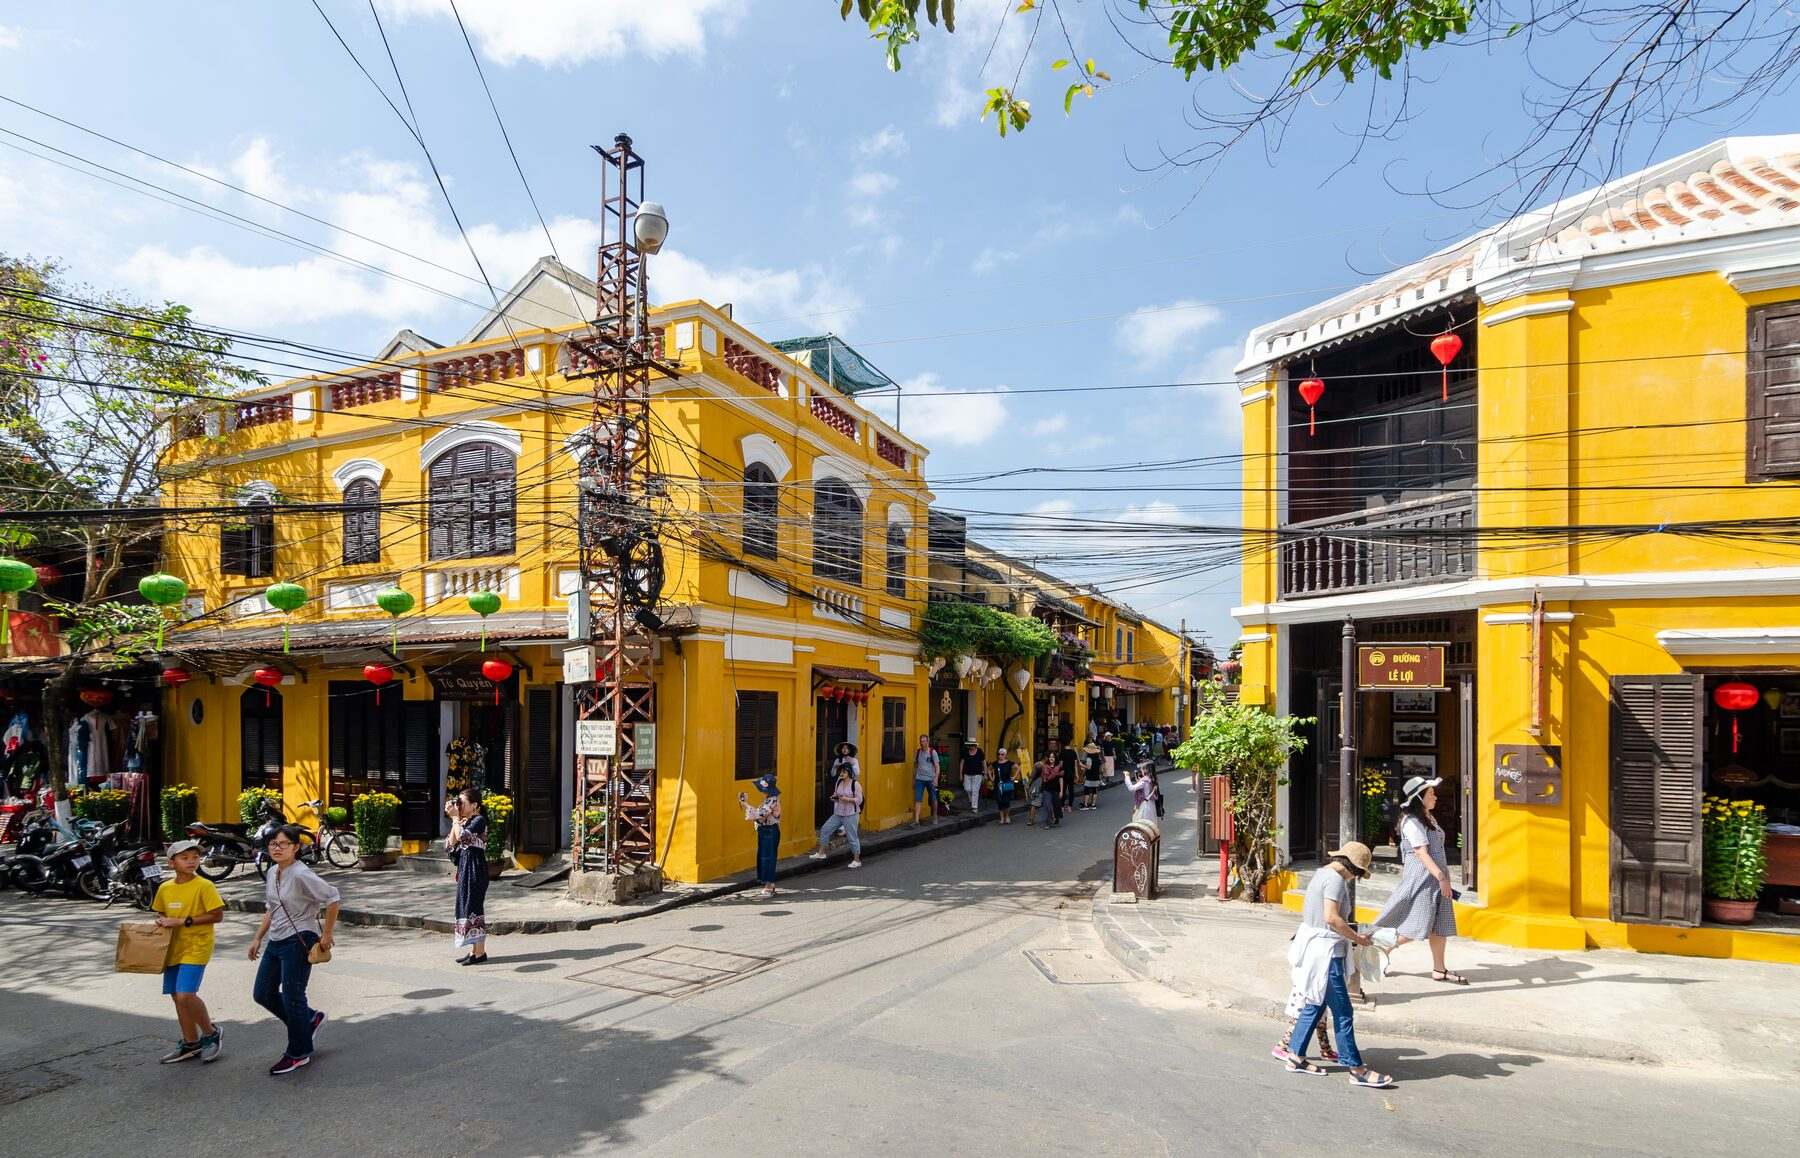
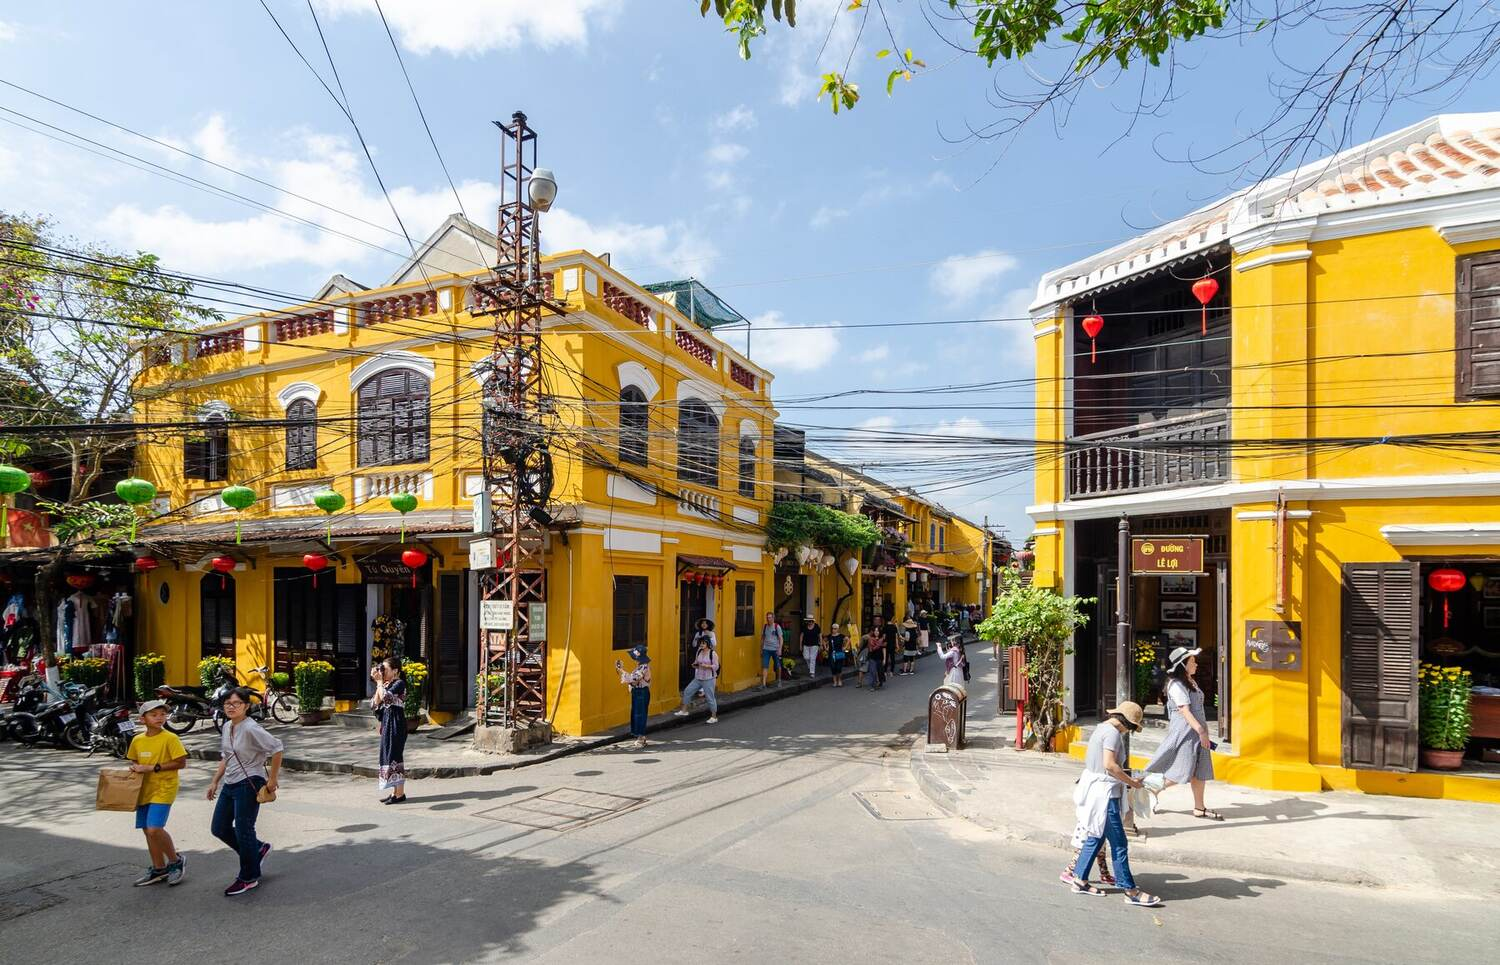
Document Turnstile and optimize hero image

diff --git a/app/privacy/page.tsx b/app/privacy/page.tsx
@@ -24,7 +24,7 @@ export default function PrivacyPolicy() {
         <section><h2 className="font-serif text-3xl">Marketing choices</h2><p className="mt-3 text-[var(--muted-ink)]">We add your email address to our MailerLite marketing list only when you separately select the optional marketing checkbox. You may unsubscribe using the link in any marketing email. Declining marketing does not prevent us from responding to your specific trip inquiry.</p></section>
         <section><h2 className="font-serif text-3xl">Where information goes</h2><p className="mt-3 text-[var(--muted-ink)]">Inquiry records are stored in the Cloudflare D1 database supporting this website and are available through a Cloudflare Access-protected owner dashboard. Inquiry details are also sent to our configured owner-notification webhook service so the owner can receive and respond to new-inquiry alerts. When you separately consent to marketing, your name and email address are transmitted to MailerLite for email-list management.</p></section>
         <section><h2 className="font-serif text-3xl">Payments and Square</h2><p className="mt-3 text-[var(--muted-ink)]">If we accept your booking, we may send your name, email address, telephone number and booking-payment amount to Square so Square can create and email an invoice for either the required 50% initial payment or, when applicable, full payment. Square processes the payment through its systems. Cookie Paradise Travel Company does not receive or store your full payment-card or bank-account number on this website.</p></section>
-        <section><h2 className="font-serif text-3xl">Sharing and service providers</h2><p className="mt-3 text-[var(--muted-ink)]">We do not sell your personal information. We use Cloudflare for website hosting, access control and database services; MailerLite for consented email marketing; Square for invoices and payment processing; and an owner-notification webhook service for operational inquiry alerts. We may also disclose information when required by law. Service providers receive only the information reasonably necessary for their role.</p></section>
+        <section><h2 className="font-serif text-3xl">Sharing and service providers</h2><p className="mt-3 text-[var(--muted-ink)]">We do not sell your personal information. We use Cloudflare for website hosting, access control, database services and Cloudflare Turnstile (bot protection); MailerLite for consented email marketing; Square for invoices and payment processing; and an owner-notification webhook service for operational inquiry alerts. We may also disclose information when required by law. Service providers receive only the information reasonably necessary for their role.</p></section>
         <section><h2 className="font-serif text-3xl">Retention and security</h2><p className="mt-3 text-[var(--muted-ink)]">We retain information for as long as reasonably necessary to manage your inquiry, provide requested services, satisfy legal or accounting obligations and protect our business. We use reasonable administrative and technical safeguards, but no internet transmission or storage system is completely secure.</p></section>
         <section><h2 className="font-serif text-3xl">Your choices</h2><p className="mt-3 text-[var(--muted-ink)]">You may ask to review, correct or delete inquiry information, subject to legal recordkeeping requirements. You can also withdraw marketing consent at any time by unsubscribing or contacting us.</p></section>
         <section><h2 className="font-serif text-3xl">Contact us</h2><p className="mt-3 text-[var(--muted-ink)]">For privacy questions or data requests, email <a className="font-semibold underline" href="mailto:trung@cookieparadise.co">trung@cookieparadise.co</a>.</p></section>
